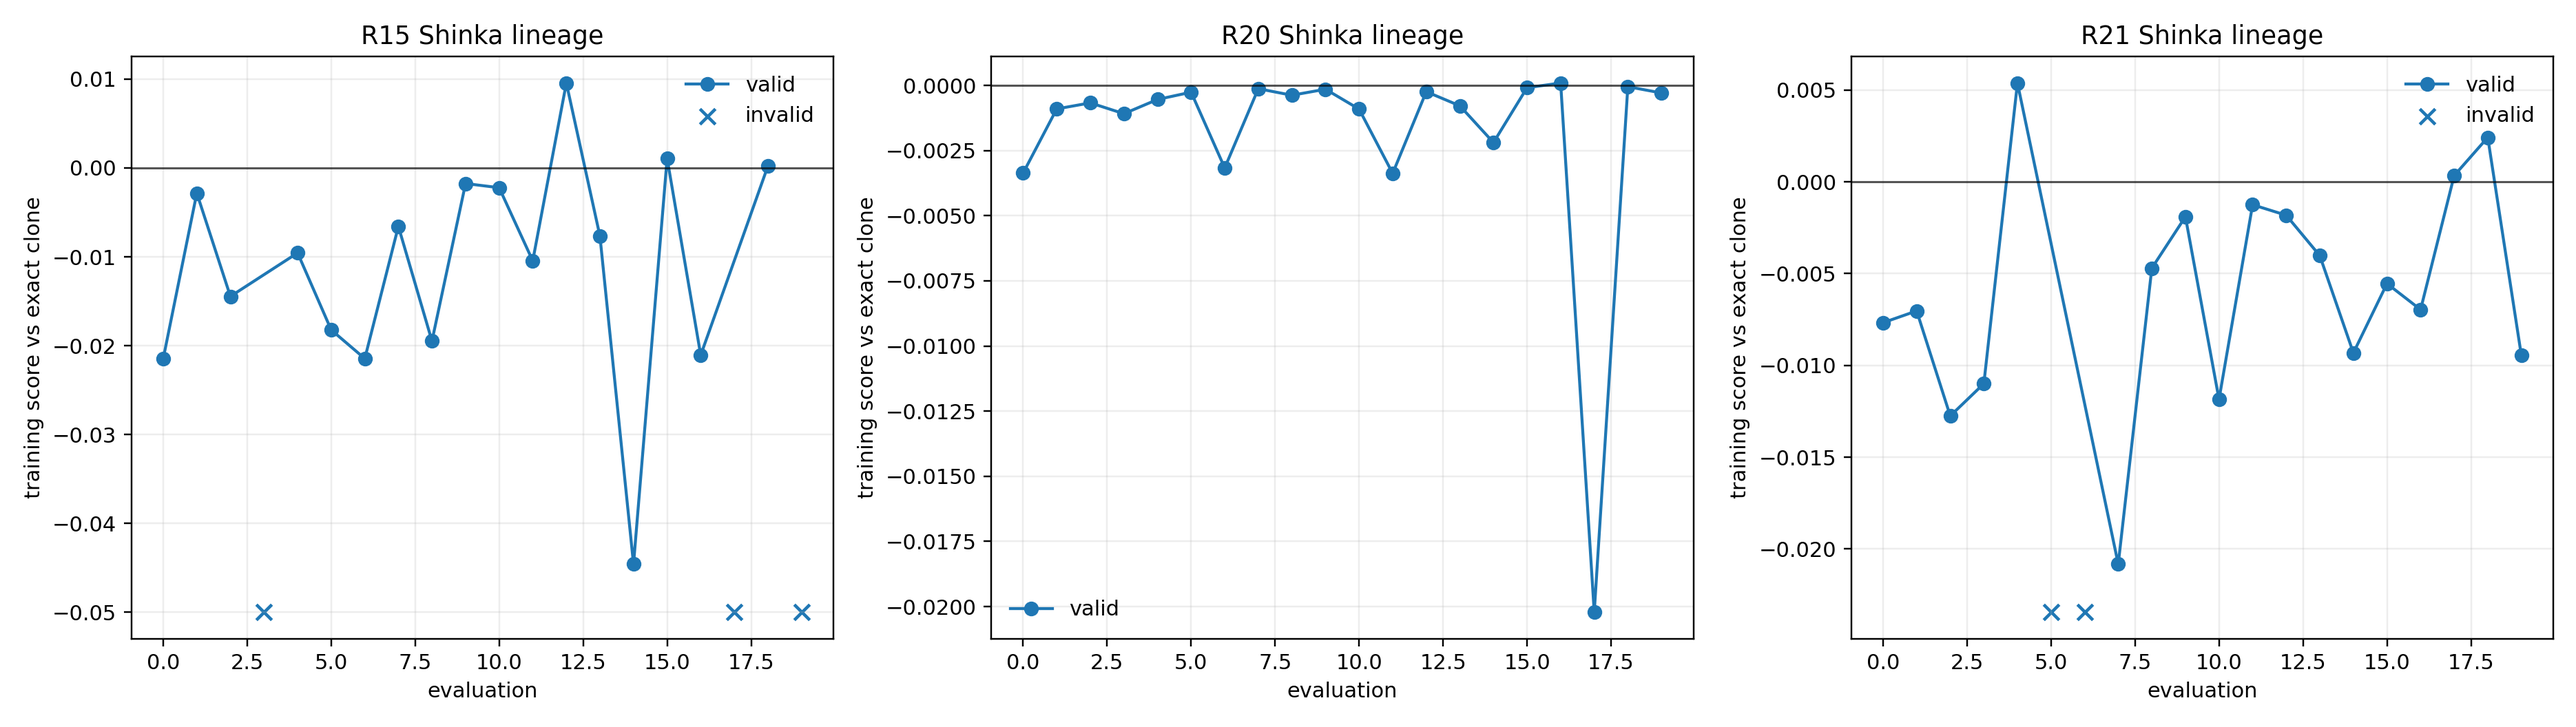
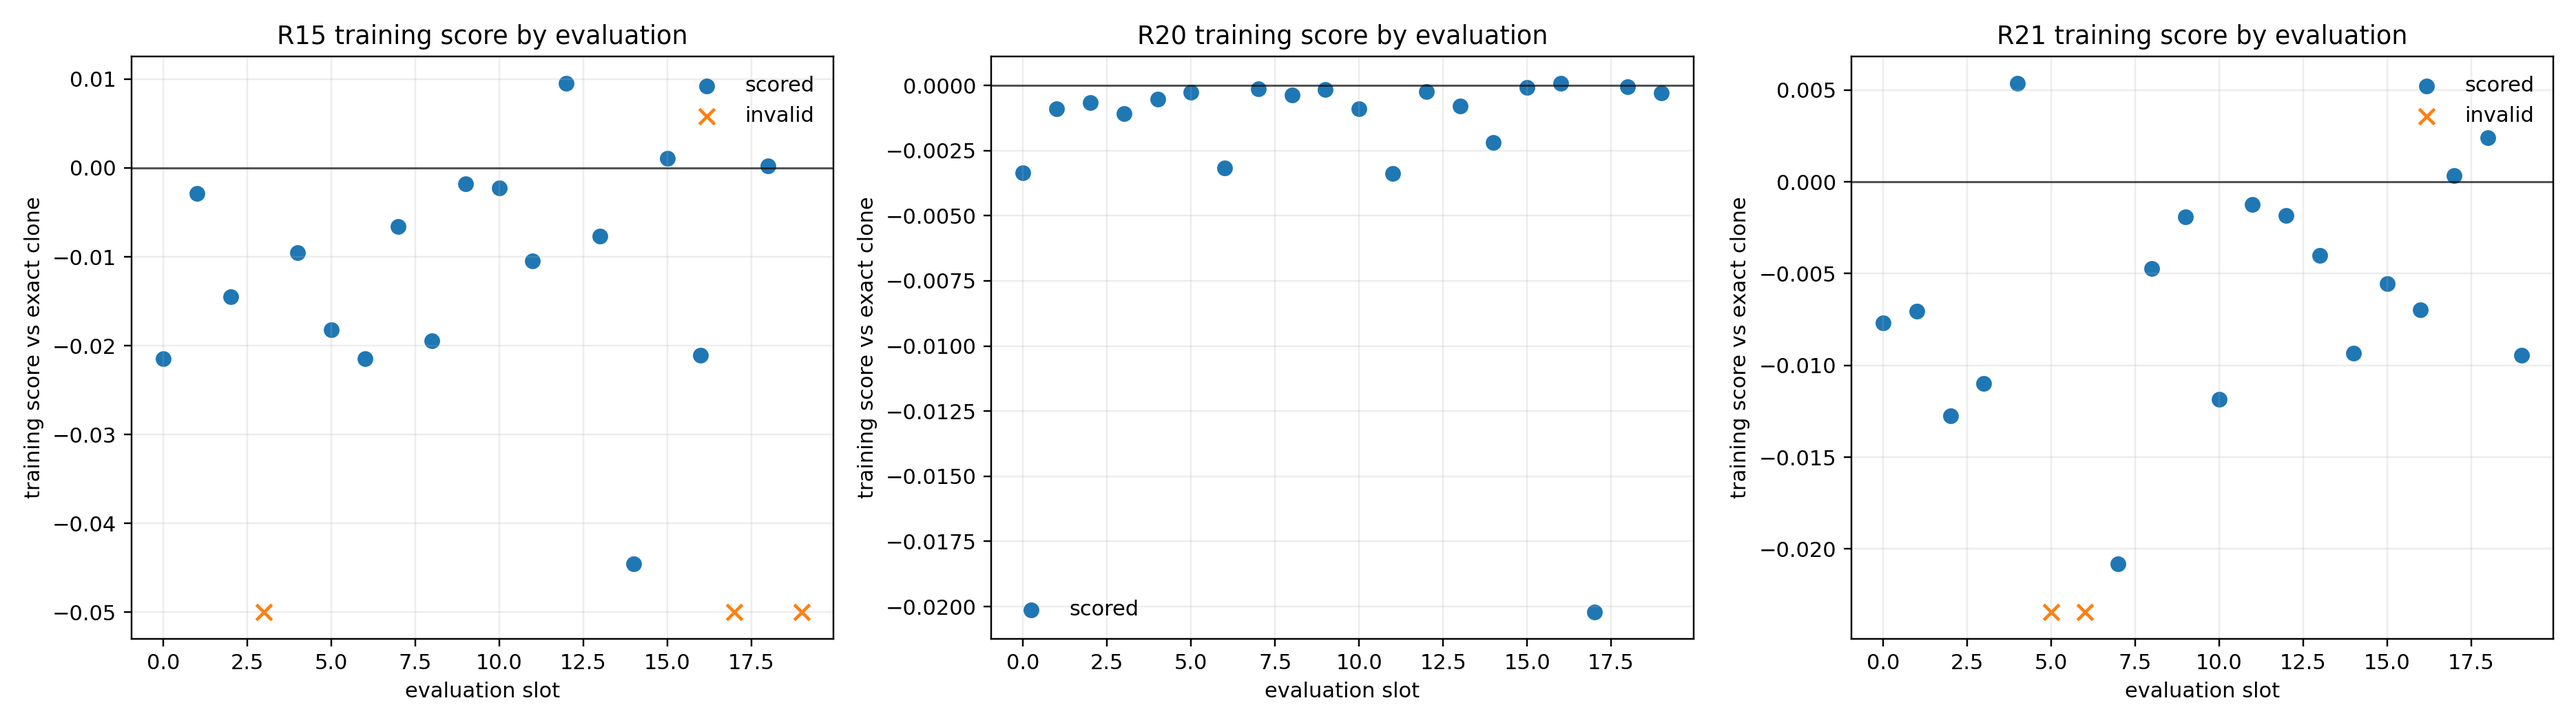
docs(evo2): clarify final R21 score trace

diff --git a/examples/evo2_ecosystem/summarize_r15_r21_campaign.py b/examples/evo2_ecosystem/summarize_r15_r21_campaign.py
@@ -235,12 +235,12 @@ def _plot_lineages(lineages: dict[str, list[dict]], output_dir: Path) -> None:
     for axis, (name, records) in zip(axes, lineages.items(), strict=True):
         valid = [record for record in records if record["valid"] and record["score"] is not None]
         invalid = [record for record in records if not record["valid"]]
-        axis.plot(
+        axis.scatter(
             [record["generation"] for record in valid],
             [record["score"] for record in valid],
             marker="o",
-            linewidth=1.4,
-            label="valid",
+            s=42,
+            label="scored",
         )
         if invalid and valid:
             scores = np.asarray([record["score"] for record in valid], dtype=np.float64)
@@ -253,8 +253,8 @@ def _plot_lineages(lineages: dict[str, list[dict]], output_dir: Path) -> None:
                 label="invalid",
             )
         axis.axhline(0.0, color="black", linewidth=1.0, alpha=0.65)
-        axis.set_title(f"{name} Shinka lineage")
-        axis.set_xlabel("evaluation")
+        axis.set_title(f"{name} training score by evaluation")
+        axis.set_xlabel("evaluation slot")
         axis.set_ylabel("training score vs exact clone")
         axis.grid(alpha=0.22)
         axis.legend(frameon=False)
